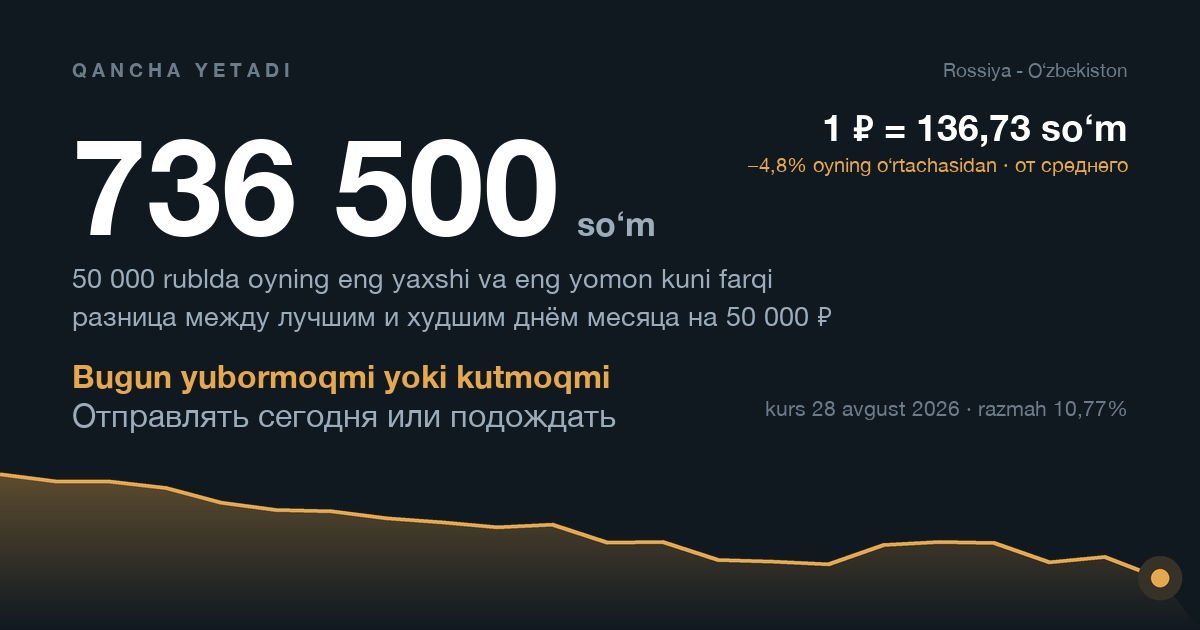
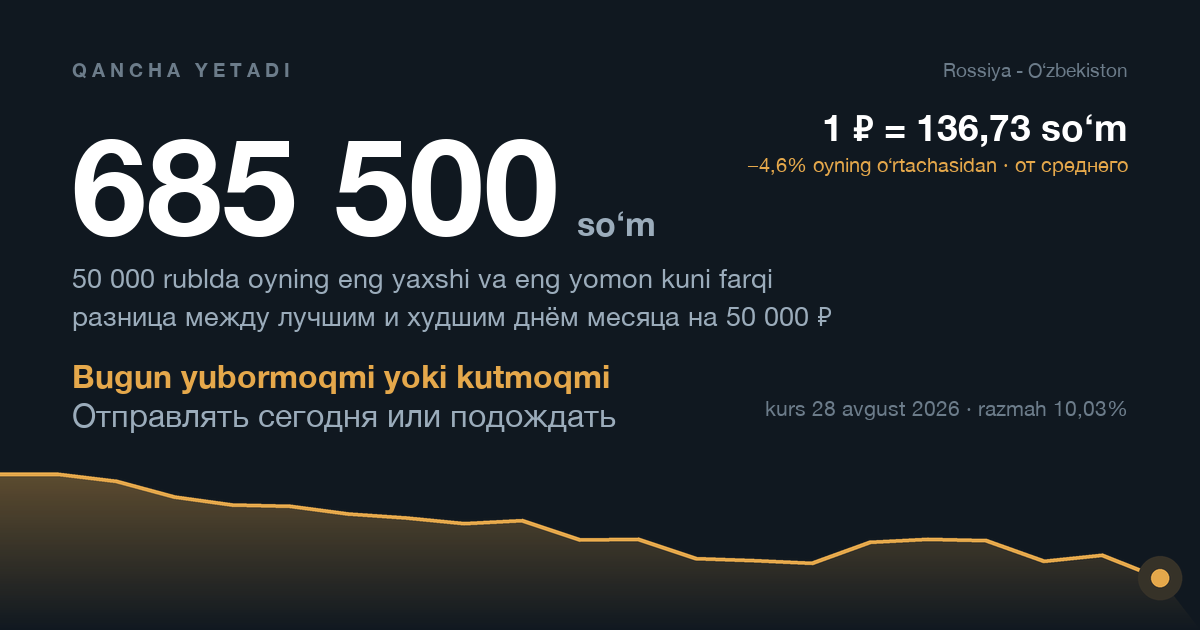
chore: версия скриптов 53, запас и обложка на курс 28 августа
Запас и страница поиска пересобраны на публикацию ЦБ за 28 августа
(136,73), обложка — на 685 500 сум по 21 публикации. Девять наборов
проверок зелёные.

diff --git a/kurs.html b/kurs.html
@@ -149,7 +149,7 @@
        публикацию, и круглое «тридцать» рядом с настоящими датами читается
        как нестыковка. Даты подставляет obnovit_zapas.py. -->
   Это главное, что стоит знать про переводы в Узбекистан, и об этом молчат
-  все. Замер по курсам ЦБ <span data-zapas="period_ru">с 30 июля по 28 августа 2026</span>, на переводе 50 000 ₽:
+  все. Замер по курсам ЦБ <span data-zapas="period_ru">с 31 июля по 28 августа 2026</span>, на переводе 50 000 ₽:
 </p>
 
 <div class="obertka">
@@ -159,21 +159,21 @@
   </thead>
   <tbody>
     <tr><td>День отправки</td>
-        <td class="num"><span data-zapas="razmah_percent">10,77</span>%</td>
-        <td class="num"><span data-zapas="razmah_sum">736 500</span></td></tr>
+        <td class="num"><span data-zapas="razmah_percent">10,03</span>%</td>
+        <td class="num"><span data-zapas="razmah_sum">685 500</span></td></tr>
     <tr><td>Сервис перевода</td>
-        <td class="num"><span data-zapas="nacenka_percent">2,00</span>%</td>
-        <td class="num"><span data-zapas="nacenka_sum">136 500</span></td></tr>
+        <td class="num"><span data-zapas="nacenka_percent">2,73</span>%</td>
+        <td class="num"><span data-zapas="nacenka_sum">186 500</span></td></tr>
     <tr><td>Банк получателя</td><td class="num">0,84%</td><td class="num">55 000</td></tr>
   </tbody>
 </table>
 </div>
 
 <p>
-  За этот месяц курс рубля прошёл путь от <span data-zapas="kurs_max">151,46</span>
+  За этот месяц курс рубля прошёл путь от <span data-zapas="kurs_max">150,44</span>
   до <span data-zapas="kurs_min">136,73</span> сума. Человек, отправивший в
   худший день месяца вместо лучшего, недосчитался
-  <span data-zapas="razmah_sum">736 500</span> сум на переводе 50 000 ₽.
+  <span data-zapas="razmah_sum">685 500</span> сум на переводе 50 000 ₽.
   Комиссия рядом с этим — мелочь.
 </p>
 
@@ -190,9 +190,9 @@
   считают по своему, и разница нигде не написана отдельной строкой.
   На <span data-zapas="data_ru">28 августа 2026</span> года: официальный
   <span data-zapas="kurs">136,73</span>, курс переводов
-  <span data-zapas="kurs_servisa">134,00</span>. Разница
-  <span data-zapas="nacenka_percent">2,00</span>% — это
-  <span data-zapas="nacenka_sum">136 500</span> сум на переводе 50 000 ₽.
+  <span data-zapas="kurs_servisa">133,00</span>. Разница
+  <span data-zapas="nacenka_percent">2,73</span>% — это
+  <span data-zapas="nacenka_sum">186 500</span> сум на переводе 50 000 ₽.
 </p>
 
 <p>
@@ -220,13 +220,13 @@
   На <span data-zapas="data_ru">28 августа 2026</span> официальный курс
   ЦБ Узбекистана — <span data-zapas="kurs">136,73</span> сума за
   1 рубль. Перевод идёт по курсу около
-  <span data-zapas="kurs_servisa">134,00</span> сума за рубль.
+  <span data-zapas="kurs_servisa">133,00</span> сума за рубль.
 </p>
 
 <p class="vopros">Сколько дойдёт до карты при переводе 50 000 рублей?</p>
 <p class="otvet">
-  По курсу переводов <span data-zapas="kurs_servisa">134,00</span> —
-  около <span data-zapas="itog_50k">6 700 000</span> сумов, если сервис не
+  По курсу переводов <span data-zapas="kurs_servisa">133,00</span> —
+  около <span data-zapas="itog_50k">6 650 000</span> сумов, если сервис не
   берёт комиссию сверху. Комиссии сервисы не публикуют, поэтому это
   верхняя граница. Точная сумма зависит от дня отправки и от банка,
   который зачисляет деньги на карту.
@@ -237,7 +237,7 @@
   В коридоре работают шестеро, курс открыто публикуют двое — сравнить
   стоит оба. Отдельно от выбора сервиса стоит день отправки: за месяц
   курс ЦБ менялся на
-  <span data-zapas="razmah_percent">10,77</span>%.
+  <span data-zapas="razmah_percent">10,03</span>%.
 </p>
 
 <p class="vopros">Стоит ли подождать с переводом?</p>
@@ -282,19 +282,19 @@
 <h3>Eng koʻp pulni yuborish KUNI hal qiladi</h3>
 
 <p>
-  Oʻlchov (<span data-zapas="period_uz">30 iyul — 28 avgust 2026</span>), 50 000 rubl uchun: yuborish kuni —
-  <span data-zapas="razmah_percent">10,77</span>% yoki
-  <span data-zapas="razmah_sum">736 500</span> soʻm; servis tanlash —
-  <span data-zapas="nacenka_percent">2,00</span>% yoki
-  <span data-zapas="nacenka_sum">136 500</span> soʻm; qabul qiluvchi
+  Oʻlchov (<span data-zapas="period_uz">31 iyul — 28 avgust 2026</span>), 50 000 rubl uchun: yuborish kuni —
+  <span data-zapas="razmah_percent">10,03</span>% yoki
+  <span data-zapas="razmah_sum">685 500</span> soʻm; servis tanlash —
+  <span data-zapas="nacenka_percent">2,73</span>% yoki
+  <span data-zapas="nacenka_sum">186 500</span> soʻm; qabul qiluvchi
   bank — 0,84%.
 </p>
 
 <p>
-  Bir oyda rubl kursi <span data-zapas="kurs_max">151,46</span> dan
+  Bir oyda rubl kursi <span data-zapas="kurs_max">150,44</span> dan
   <span data-zapas="kurs_min">136,73</span> gacha tushdi. Eng yomon kunda
   yuborgan odam eng yaxshi kunga nisbatan
-  <span data-zapas="razmah_sum">736 500</span> soʻm kam oldi.
+  <span data-zapas="razmah_sum">685 500</span> soʻm kam oldi.
   Komissiya bunga nisbatan mayda gap.
 </p>
 
@@ -304,9 +304,9 @@
   Rasmiy kurs — bu oʻtkazma kursi emas.
   <span data-zapas="data_uz">28 avgust 2026</span>: rasmiy
   <span data-zapas="kurs">136,73</span>, oʻtkazma
-  <span data-zapas="kurs_servisa">134,00</span>. Farqi
-  <span data-zapas="nacenka_percent">2,00</span>% — 50 000 rublda
-  <span data-zapas="nacenka_sum">136 500</span> soʻm. Bu komissiya
+  <span data-zapas="kurs_servisa">133,00</span>. Farqi
+  <span data-zapas="nacenka_percent">2,73</span>% — 50 000 rublda
+  <span data-zapas="nacenka_sum">186 500</span> soʻm. Bu komissiya
   emas, bu kurs, va u hech qayerda alohida yozilmagan.
 </p>
 

diff --git a/data.js b/data.js
@@ -58,14 +58,14 @@ window.SERVICES = [
     ],
     "fee_fixed": 0,
     "fee_percent": 0,
-    "rate_rub_uzs": 131.0,
+    "rate_rub_uzs": 133.0,
     "limit_per_operation": 100000,
     "delivery_minutes": 60,
     "incoming_fee": 0,
-    "checked_at": "2026-08-27T19:31:08+00:00",
+    "checked_at": "2026-08-29T08:40:25+00:00",
     "verified_by_receipt": false,
     "fee_unknown": false,
-    "nacenka_percent": 4.19,
+    "nacenka_percent": 2.73,
     "url": "https://yubor.ru/",
     "limit_min": 9000,
     "istochnik_uslovij": "yubor.ru, 16.08.2026"
@@ -79,14 +79,14 @@ window.SERVICES = [
     ],
     "fee_fixed": 29,
     "fee_percent": 0,
-    "rate_rub_uzs": 134.0,
+    "rate_rub_uzs": 132.0,
     "limit_per_operation": 200000,
     "delivery_minutes": 60,
     "incoming_fee": 0,
-    "checked_at": "2026-08-27T19:31:08+00:00",
+    "checked_at": "2026-08-29T08:40:25+00:00",
     "verified_by_receipt": false,
     "fee_unknown": false,
-    "nacenka_percent": 2.0,
+    "nacenka_percent": 3.46,
     "url": "https://avosend.com/",
     "limit_v_sutki": 380000,
     "limit_v_mesyac": 1500000,
@@ -120,15 +120,15 @@ window.KURSY_ZAPAS = {"usd_uzs": 11801.23, "rub_uzs": 136.73, "date": "28.08.202
  * главная ценность приложения, и терять его при сбое сети нельзя.
  */
 window.HISTORY_ZAPAS = [
-  { date: '2026-07-30', rub_uzs: 151.46 }, { date: '2026-07-31', rub_uzs: 150.44 },
-  { date: '2026-08-03', rub_uzs: 150.42 }, { date: '2026-08-04', rub_uzs: 149.48 },
-  { date: '2026-08-05', rub_uzs: 147.42 }, { date: '2026-08-06', rub_uzs: 146.37 },
-  { date: '2026-08-07', rub_uzs: 146.19 }, { date: '2026-08-10', rub_uzs: 145.21 },
-  { date: '2026-08-11', rub_uzs: 144.64 }, { date: '2026-08-12', rub_uzs: 143.93 },
-  { date: '2026-08-13', rub_uzs: 144.29 }, { date: '2026-08-14', rub_uzs: 141.76 },
-  { date: '2026-08-17', rub_uzs: 141.83 }, { date: '2026-08-18', rub_uzs: 139.32 },
-  { date: '2026-08-19', rub_uzs: 139.05 }, { date: '2026-08-20', rub_uzs: 138.67 },
-  { date: '2026-08-21', rub_uzs: 141.44 }, { date: '2026-08-24', rub_uzs: 141.86 },
-  { date: '2026-08-25', rub_uzs: 141.69 }, { date: '2026-08-26', rub_uzs: 138.96 },
-  { date: '2026-08-27', rub_uzs: 139.74 }, { date: '2026-08-28', rub_uzs: 136.73 },
+  { date: '2026-07-31', rub_uzs: 150.44 }, { date: '2026-08-03', rub_uzs: 150.42 },
+  { date: '2026-08-04', rub_uzs: 149.48 }, { date: '2026-08-05', rub_uzs: 147.42 },
+  { date: '2026-08-06', rub_uzs: 146.37 }, { date: '2026-08-07', rub_uzs: 146.19 },
+  { date: '2026-08-10', rub_uzs: 145.21 }, { date: '2026-08-11', rub_uzs: 144.64 },
+  { date: '2026-08-12', rub_uzs: 143.93 }, { date: '2026-08-13', rub_uzs: 144.29 },
+  { date: '2026-08-14', rub_uzs: 141.76 }, { date: '2026-08-17', rub_uzs: 141.83 },
+  { date: '2026-08-18', rub_uzs: 139.32 }, { date: '2026-08-19', rub_uzs: 139.05 },
+  { date: '2026-08-20', rub_uzs: 138.67 }, { date: '2026-08-21', rub_uzs: 141.44 },
+  { date: '2026-08-24', rub_uzs: 141.86 }, { date: '2026-08-25', rub_uzs: 141.69 },
+  { date: '2026-08-26', rub_uzs: 138.96 }, { date: '2026-08-27', rub_uzs: 139.74 },
+  { date: '2026-08-28', rub_uzs: 136.73 },
 ];

diff --git a/index.html b/index.html
@@ -779,9 +779,9 @@
      ?v= обязателен: Telegram держит файлы мини-аппа в кеше по нескольку
      часов, и без смены адреса человек продолжает видеть старую версию.
      Правило: поменял js — увеличил число здесь, иначе правка не доедет. -->
-<script src="i18n.js?v=52"></script>
-<script src="data.js?v=52"></script>
-<script src="calc.js?v=52"></script>
-<script src="app.js?v=52"></script>
+<script src="i18n.js?v=53"></script>
+<script src="data.js?v=53"></script>
+<script src="calc.js?v=53"></script>
+<script src="app.js?v=53"></script>
 </body>
 </html>
